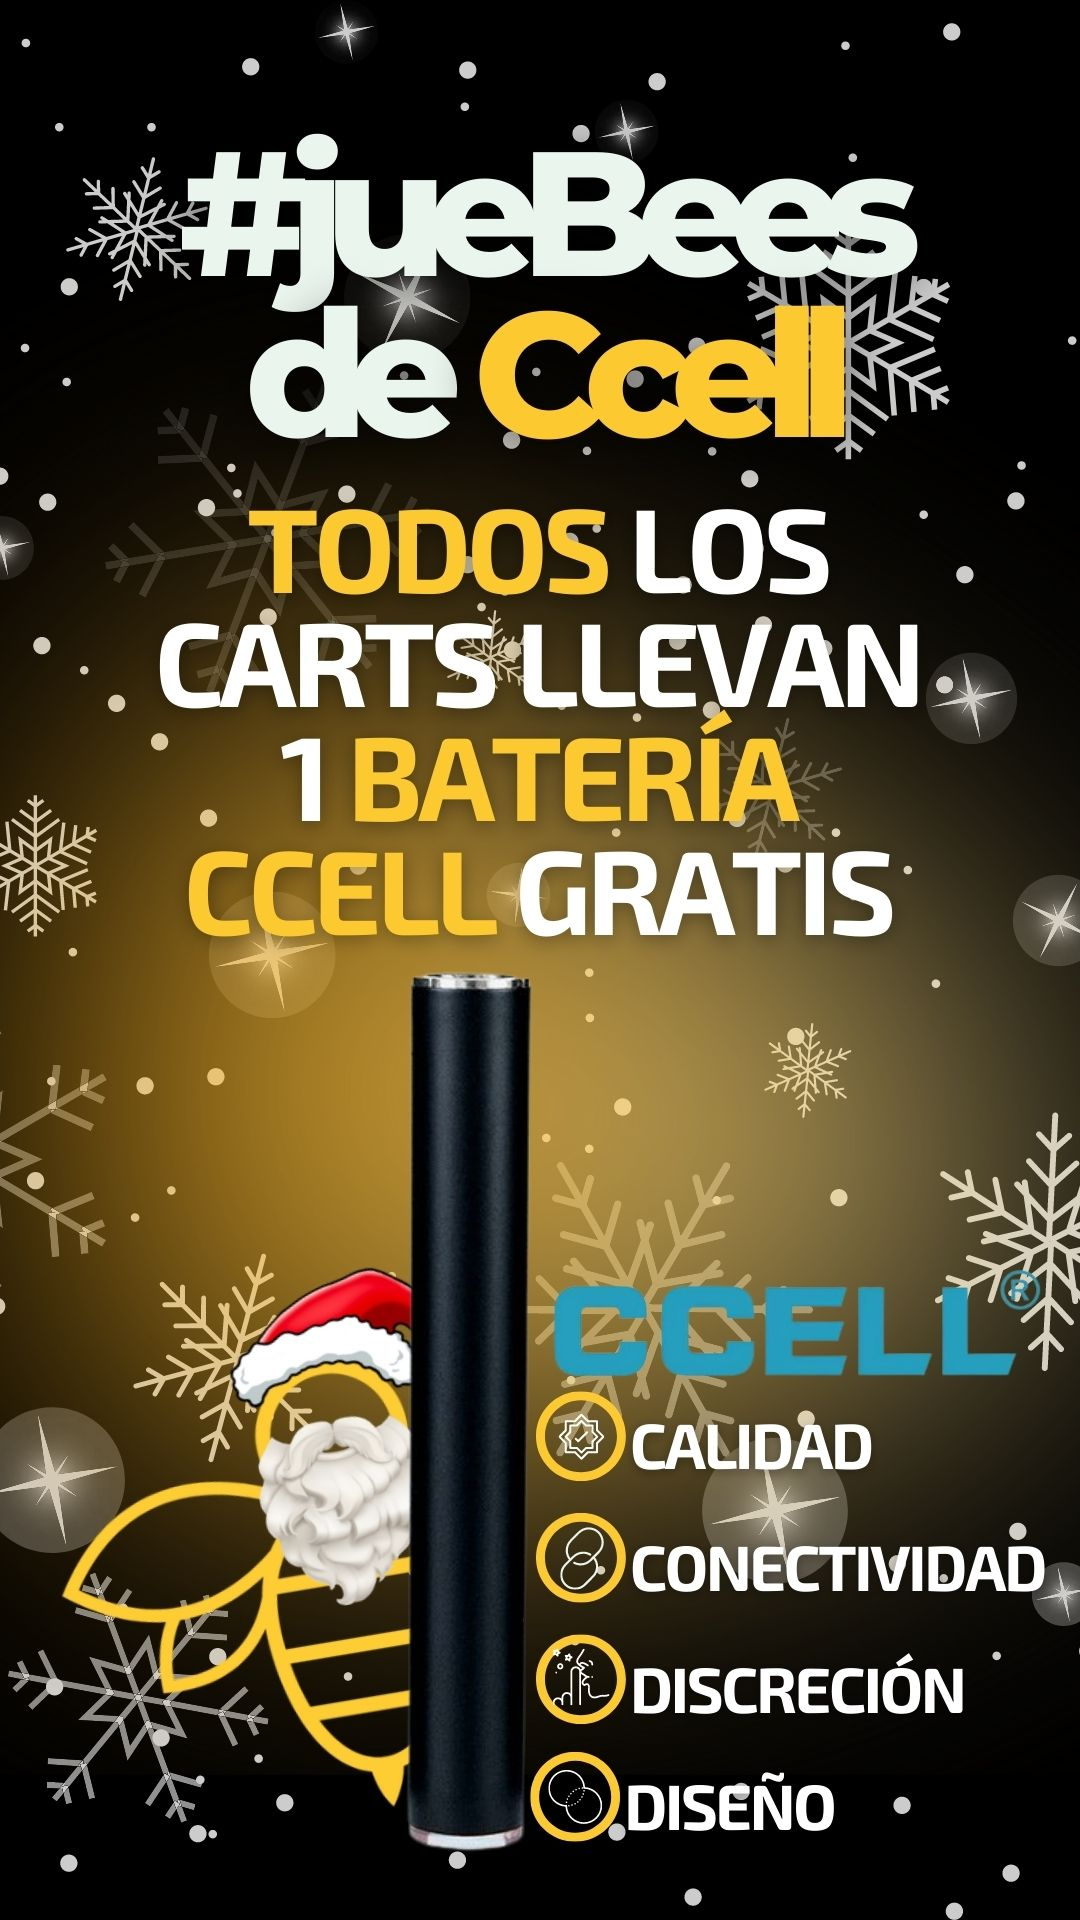
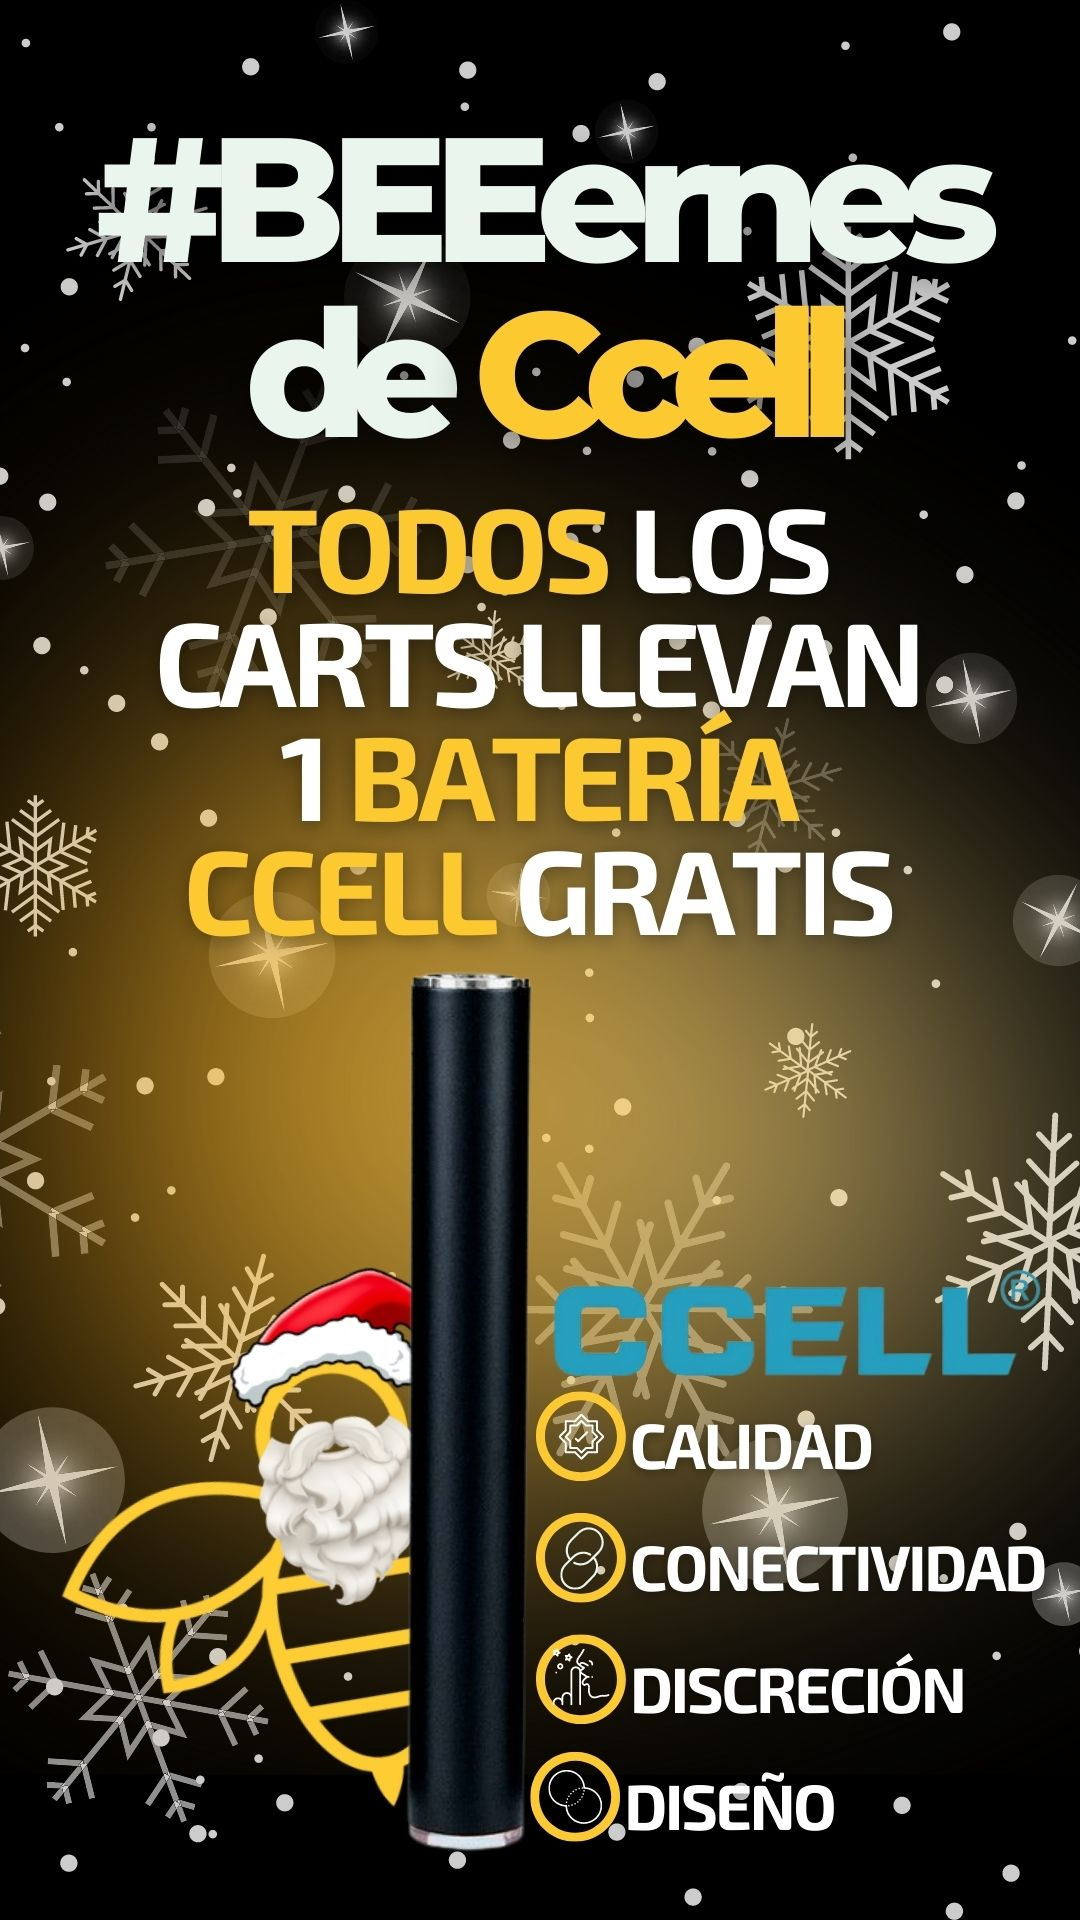
add

Changed region(s): [[0.0917, 0.0625, 0.9167, 0.1875]]

diff --git a/home.html b/home.html
@@ -73,13 +73,13 @@
 
             <article class="slide">
                 <div class="infoProducto">
-                    <img src="/media/juebberccell.jpg" alt="Promo1" class="imagenPromo"> <!--dejar esta promo siempre-->
+                    <img src="/media/bee1.jpg" alt="Promo1" class="imagenPromo"> <!--dejar esta promo siempre-->
                 </div>
             </article>
 
             <article class="slide">
                 <div class="infoProducto">
-                    <img src="/media/juebees1.jpg" alt="Promo1" class="imagenPromo"> <!--dejar esta promo siempre-->
+                    <img src="/media/bee2.jpg" alt="Promo1" class="imagenPromo"> <!--dejar esta promo siempre-->
                 </div>
             </article>
 
